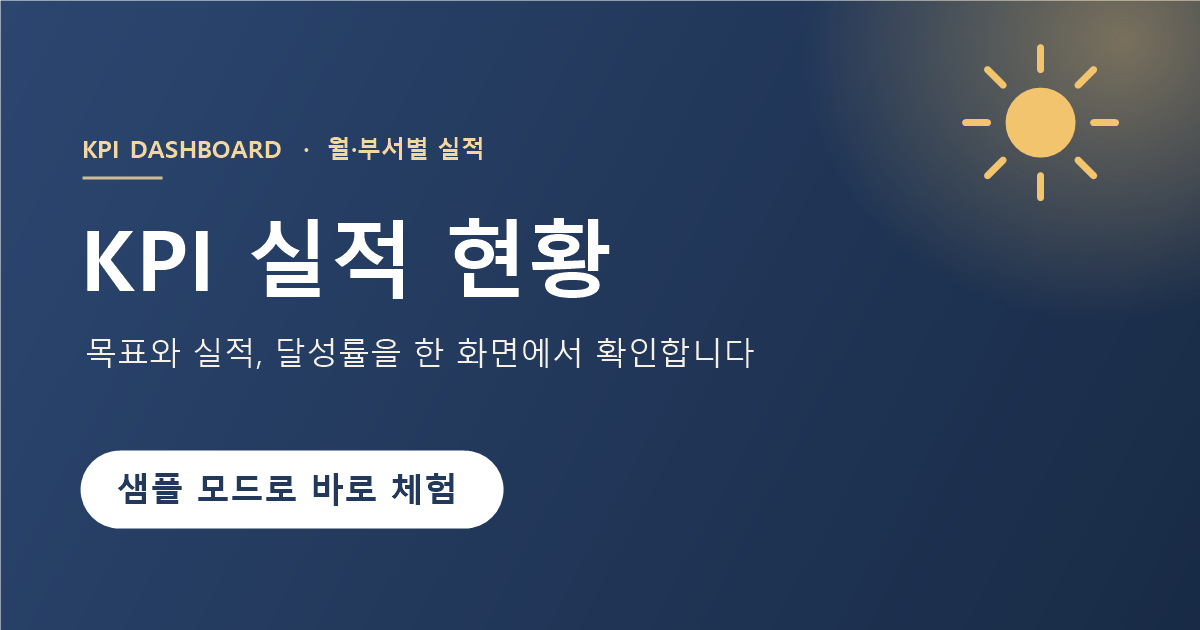
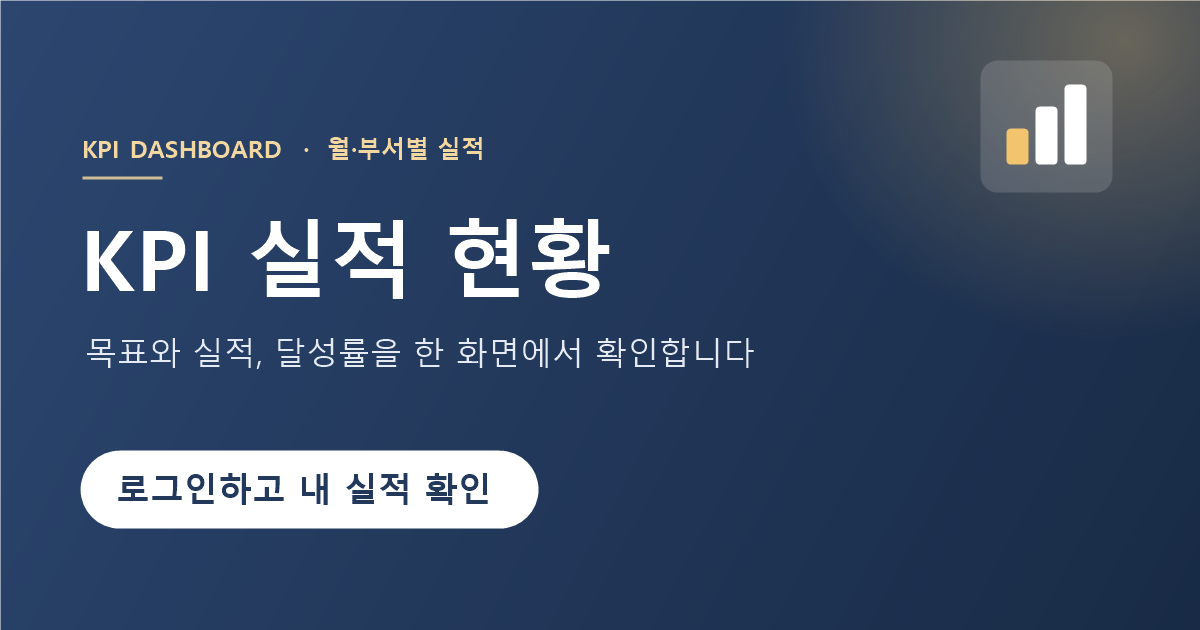
Supabase 로그인 기능 추가, 미리보기 그림 변경

Changed region(s): [[0.0925, 0.6937, 0.4625, 0.8444], [0.8017, 0.0603, 0.925, 0.3317], [0.8017, 0.0905, 0.8325, 0.1206]]

diff --git a/app.js b/app.js
@@ -1,9 +1,9 @@
 // KPI 실적 현황 — app.js
-// [1] 데이터 읽기·저장 부분  [2] 화면 코드  (Supabase 연결 때는 [1]만 바꿉니다)
+// [1] 데이터 읽기·저장 부분  [2] 화면 코드
+// config.js가 비어 있으면 '샘플 모드'(이 브라우저에만 저장),
+// 채워져 있으면 'Supabase 모드'(로그인한 사용자의 자료를 DB에 저장)로 작동합니다.
 
 // ===== [1] 데이터 읽기·저장 =====
-// 지금은 샘플 모드: 가상 샘플을 이 브라우저(localStorage)에만 저장합니다.
-// 나중에 Supabase를 연결할 때는 이 파일의 list / add / update / remove 안쪽만 바꾸면 됩니다.
 (function () {
   var STORAGE_KEY = 'kpi_records_sample_v1';
 
@@ -68,11 +68,11 @@
     return { ok: Object.keys(errors).length === 0, errors: errors, value: { month: month, team: team, target: target, actual: actual } };
   }
 
-  // 화면에서 쓰는 함수들 — 모두 Promise로 돌려줘서 나중에 서버 요청으로 바꾸기 쉽게 했습니다.
-  window.KpiStore = {
+  // --- 샘플 모드: 가상 샘플을 이 브라우저(localStorage)에만 저장 ---
+  var sampleStore = {
     mode: 'sample',
+    auth: null,
     list: function () { return Promise.resolve(load()); },
-    validate: function (input, editingId) { return validate(input, load(), editingId); },
     add: function (input) {
       var rows = load();
       var v = validate(input, rows, null);
@@ -97,6 +97,93 @@
     },
     resetSample: function () { save(clone(SAMPLE)); return Promise.resolve(); }
   };
+
+  // --- Supabase 모드: 로그인한 사용자의 자료만 DB에서 읽고 씀 (RLS가 최종 검사) ---
+  function makeSupabaseStore(url, key) {
+    var db = window.supabase.createClient(url, key);
+    var cache = []; // 화면 검사(중복 안내)에 쓰는 마지막 조회 결과
+    var COLS = 'id, source_id, month, team, target, actual';
+
+    // DB 오류를 쉬운 말로 바꿔서 { errors } 형태로 돌려줌
+    function fail(error, value) {
+      var code = error && error.code;
+      var msg = (error && error.message) || '';
+      var errors = {};
+      if (code === '23505') {
+        if (/source_id/.test(msg)) errors.form = '샘플 6건이 이미 들어 있어요. 기존 자료는 그대로 두었어요.';
+        else errors.team = (value ? value.month + ' ' + value.team + ' ' : '') + '자료가 이미 있습니다. 표에서 [수정]을 눌러 고쳐 주세요.';
+      } else if (code === '23514') errors.form = 'DB 규칙에 맞지 않는 값이라 저장되지 않았어요. (월 형식·부서명·금액 확인)';
+      else if (code === '42501' || /JWT|permission|row-level/i.test(msg)) errors.form = '로그인이 필요하거나 권한이 없어 저장되지 않았어요. 다시 로그인해 주세요.';
+      else if (/fetch|network/i.test(msg)) errors.form = '서버에 연결하지 못했어요. 인터넷 연결을 확인해 주세요.';
+      else errors.form = '저장하지 못했어요. (' + (code || '') + ' ' + msg + ')';
+      return { ok: false, errors: errors };
+    }
+    function toRow(r) { return { id: r.id, source_id: r.source_id, month: r.month, team: r.team, target: Number(r.target), actual: Number(r.actual) }; }
+
+    return {
+      mode: 'supabase',
+      auth: {
+        getUser: function () { return db.auth.getSession().then(function (res) { return res.data.session ? res.data.session.user : null; }); },
+        signIn: function (email, password) {
+          return db.auth.signInWithPassword({ email: email, password: password }).then(function (res) {
+            if (res.error) throw res.error;
+            return res.data.user;
+          });
+        },
+        signOut: function () { cache = []; return db.auth.signOut(); },
+        onChange: function (fn) { db.auth.onAuthStateChange(function (event, session) { cache = []; fn(event, session ? session.user : null); }); }
+      },
+      list: function () {
+        return db.from('kpi_records').select(COLS).order('month', { ascending: false }).then(function (res) {
+          if (res.error) throw fail(res.error);
+          cache = res.data.map(toRow);
+          return cache.map(function (r) { return Object.assign({}, r); });
+        });
+      },
+      add: function (input) {
+        var v = validate(input, cache, null);
+        if (!v.ok) return Promise.reject(v);
+        // user_id는 DB가 로그인한 사용자로 자동으로 채움
+        return db.from('kpi_records').insert(v.value).select(COLS).then(function (res) {
+          if (res.error) throw fail(res.error, v.value);
+          return toRow(res.data[0]);
+        });
+      },
+      update: function (id, input) {
+        var v = validate(input, cache, id);
+        if (!v.ok) return Promise.reject(v);
+        return db.from('kpi_records').update(v.value).eq('id', id).select(COLS).then(function (res) {
+          if (res.error) throw fail(res.error, v.value);
+          // 권한이 없으면 오류 없이 0건일 수 있으므로 반환 행을 확인
+          if (!res.data.length) throw { ok: false, errors: { form: '수정되지 않았어요. 이미 삭제됐거나 내 자료가 아니에요.' } };
+          return toRow(res.data[0]);
+        });
+      },
+      remove: function (id) {
+        return db.from('kpi_records').delete().eq('id', id).select('id').then(function (res) {
+          if (res.error) throw fail(res.error);
+          if (!res.data.length) throw { ok: false, errors: { form: '삭제되지 않았어요. 이미 삭제됐거나 내 자료가 아니에요.' } };
+        });
+      },
+      // 샘플 6건을 한 번의 요청으로 저장 (원본 번호는 source_id로 보관 → 다시 가져오면 중복 오류)
+      importSample: function () {
+        var rows = SAMPLE.map(function (r) { return { source_id: r.id, month: r.month, team: r.team, target: r.target, actual: r.actual }; });
+        return db.from('kpi_records').insert(rows).then(function (res) {
+          if (res.error) throw fail(res.error);
+        });
+      }
+    };
+  }
+
+  var cfg = window.KPI_CONFIG || {};
+  var url = String(cfg.supabaseUrl || '').trim();
+  var key = String(cfg.supabasePublishableKey || '').trim();
+  if (url && key && window.supabase) {
+    window.KpiStore = makeSupabaseStore(url, key);
+  } else {
+    window.KpiStore = sampleStore;
+    if (url && key) window.KpiStore.loadError = 'Supabase 도구를 불러오지 못해 샘플 모드로 작동 중이에요. 인터넷 연결을 확인해 주세요.';
+  }
 })();
 
 // ===== [2] 화면 코드 =====
@@ -104,6 +191,9 @@
   var $ = function (id) { return document.getElementById(id); };
   var rows = [];
   var editingId = null;
+  var isDb = KpiStore.mode === 'supabase';
+  var currentUser = null;
+  function needLogin() { return isDb && !currentUser; }
 
   function won(n) { return n.toLocaleString('ko-KR'); }
   // 퍼센트는 마지막 표시 단계에서만 소수 둘째 자리로 반올림
@@ -174,14 +264,30 @@
       return '<tr' + (r.id === editingId ? ' class="editing"' : '') + '><td>' + esc(r.month) + '</td><td>' + esc(r.team) + '</td>' +
         '<td class="num">' + won(r.target) + '</td><td class="num">' + won(r.actual) + '</td><td class="num">' + pill(pct(r.actual, r.target)) + '</td>' +
         '<td><div class="actions"><button class="btn ghost small" data-edit="' + esc(r.id) + '">수정</button><button class="btn danger small" data-del="' + esc(r.id) + '">삭제</button></div></td></tr>';
-    }).join('') : '<tr><td colspan="6"><div class="empty"><b>' + (rows.length ? '조건에 맞는 자료가 없어요' : '아직 입력된 자료가 없어요') + '</b>' +
-      (rows.length ? '필터를 [필터 초기화]로 되돌려 보세요.' : '위의 실적 입력에서 첫 자료를 저장하거나, 샘플 6건을 불러오세요.') + '</div></td></tr>';
+    }).join('') : '<tr><td colspan="6"><div class="empty">' + (needLogin() ? '<b>로그인하면 내 자료가 보여요</b>위의 로그인 칸에서 앱 사용자로 로그인해 주세요.' :
+      '<b>' + (rows.length ? '조건에 맞는 자료가 없어요' : '아직 입력된 자료가 없어요') + '</b>' +
+      (rows.length ? '필터를 [필터 초기화]로 되돌려 보세요.' : '위의 실적 입력에서 첫 자료를 저장하거나, 샘플 6건을 불러오세요.')) + '</div></td></tr>';
     $('tfoot').innerHTML = list.length ? '<tr><td colspan="2">합계 (' + list.length + '건)</td><td class="num">' + won(tSum) + '</td><td class="num">' + won(aSum) + '</td><td class="num">' + pill(p) + '</td><td></td></tr>' : '';
   }
 
   function reload() {
+    if (needLogin()) { rows = []; render(); return Promise.resolve(); }
     return KpiStore.list().then(function (data) { rows = data; render(); })
-      .catch(function () { showToast('자료를 불러오지 못했어요. 새로고침해 주세요.', false); });
+      .catch(function (v) {
+        rows = []; render();
+        showToast((v && v.errors && v.errors.form) || '자료를 불러오지 못했어요. 새로고침해 주세요.', false);
+      });
+  }
+
+  // 로그인 상태에 맞춰 화면 바꾸기 (Supabase 모드)
+  function setUser(user) {
+    var changed = (currentUser && currentUser.id) !== (user && user.id);
+    currentUser = user;
+    $('loginCard').hidden = !!user;
+    $('logoutBtn').hidden = !user;
+    $('modeBadge').textContent = user ? 'DB 모드 · ' + user.email : 'DB 모드 · 로그인이 필요해요';
+    document.querySelectorAll('#form input, #form button, #sampleBtn').forEach(function (el) { el.disabled = !user; });
+    if (changed) { setEditing(null); rows = []; reload(); }
   }
 
   // 안내 메시지
@@ -255,8 +361,11 @@
       if (!r || !confirm(r.month + ' ' + r.team + ' 자료를 삭제할까요?')) return;
       KpiStore.remove(r.id).then(function () {
         if (editingId === r.id) setEditing(null);
-        return reload();
-      }).then(function () { showToast(r.month + ' ' + r.team + ' 자료를 삭제했어요.', true); });
+        return reload().then(function () { showToast(r.month + ' ' + r.team + ' 자료를 삭제했어요.', true); });
+      }).catch(function (v) {
+        showToast((v && v.errors && v.errors.form) || '삭제하지 못했어요.', false);
+        reload();
+      });
     }
   });
 
@@ -264,10 +373,46 @@
   $('fTeam').addEventListener('change', render);
   $('fReset').addEventListener('click', function () { $('fMonth').value = ''; $('fTeam').value = ''; render(); });
   $('sampleBtn').addEventListener('click', function () {
+    if (isDb) {
+      if (!confirm('가상 샘플 6건을 내 DB 자료로 저장할까요? (한 번만 가능해요)')) return;
+      KpiStore.importSample().then(function () { return reload(); })
+        .then(function () { showToast('샘플 6건을 DB에 저장했어요. 전체 달성률이 99%인지 확인해 보세요.', true); })
+        .catch(function (v) { showToast((v && v.errors && v.errors.form) || '샘플을 저장하지 못했어요.', false); reload(); });
+      return;
+    }
     if (!confirm('지금 자료를 지우고 가상 샘플 6건으로 되돌릴까요?')) return;
     KpiStore.resetSample().then(function () { setEditing(null); return reload(); })
       .then(function () { showToast('샘플 6건으로 되돌렸어요.', true); });
   });
 
-  reload();
+  if (isDb) {
+    $('modeBadge').classList.add('live');
+    $('sampleBtn').textContent = '샘플 6건 가져오기';
+    $('saveNote').innerHTML = '입력한 값은 <b>Supabase DB</b>에 저장돼요. 다른 기기에서 같은 계정으로 로그인해도 똑같이 보여요.';
+
+    $('loginForm').addEventListener('submit', function (e) {
+      e.preventDefault();
+      $('loginErr').textContent = '';
+      $('loginBtn').disabled = true;
+      KpiStore.auth.signIn($('lEmail').value.trim(), $('lPw').value)
+        .then(function (user) { $('lPw').value = ''; setUser(user); showToast(user.email + ' 계정으로 로그인했어요.', true); })
+        .catch(function (err) {
+          var msg = (err && err.message) || '';
+          $('loginErr').textContent = /Invalid login/i.test(msg) ? '이메일 또는 비밀번호가 맞지 않아요.' :
+            /not confirmed/i.test(msg) ? '이메일 확인이 끝나지 않은 사용자예요. Supabase에서 확인 완료로 바꿔 주세요.' :
+            /fetch|network/i.test(msg) ? 'Supabase에 연결하지 못했어요. 인터넷 연결과 config.js의 주소를 확인해 주세요.' :
+            '로그인하지 못했어요. (' + msg + ')';
+        })
+        .then(function () { $('loginBtn').disabled = false; });
+    });
+    $('logoutBtn').addEventListener('click', function () {
+      KpiStore.auth.signOut().then(function () { setUser(null); showToast('로그아웃했어요.', true); });
+    });
+    KpiStore.auth.onChange(function (event, user) { setUser(user); });
+    setUser(null); render(); // 로그인 확인 전에는 빈 화면
+    KpiStore.auth.getUser().then(setUser);
+  } else {
+    if (KpiStore.loadError) showToast(KpiStore.loadError, false);
+    reload();
+  }
 })();

diff --git a/index.html b/index.html
@@ -11,7 +11,7 @@
 <meta property="og:title" content="KPI 실적 현황">
 <meta property="og:description" content="월·부서별 목표와 실적, 달성률을 한 화면에서 확인합니다">
 <meta property="og:url" content="https://jiniya1227.github.io/kpi-dashboard/">
-<meta property="og:image" content="https://jiniya1227.github.io/kpi-dashboard/og.png?v=20261029">
+<meta property="og:image" content="https://jiniya1227.github.io/kpi-dashboard/og.png?v=20261029b">
 <meta property="og:image:width" content="1200">
 <meta property="og:image:height" content="630">
 
@@ -31,11 +31,26 @@
     <div class="eyebrow">KPI Dashboard</div>
     <h1>KPI 실적 현황</h1>
     <p>월·부서별 목표와 실적을 비교하고 달성률을 확인합니다.</p>
-    <div class="mode" id="modeBadge">샘플 모드 · 가상 자료로 작동 중</div>
+    <div class="mode-row">
+      <div class="mode" id="modeBadge">샘플 모드 · 가상 자료로 작동 중</div>
+      <button class="btn small logout" id="logoutBtn" type="button" hidden>로그아웃</button>
+    </div>
   </div>
 </header>
 
 <main class="wrap">
+
+  <!-- 로그인 (Supabase 모드에서만 보임) -->
+  <section class="card login" id="loginCard" aria-labelledby="t-login" hidden>
+    <div class="section-title"><span class="no">00</span><h2 id="t-login">로그인</h2></div>
+    <p class="login-lead">로그인하면 <b>내 실적 자료</b>만 보이고, 입력한 값은 DB에 저장돼요.</p>
+    <form id="loginForm" class="login-form">
+      <div class="field"><label for="lEmail">이메일</label><input type="email" id="lEmail" autocomplete="username" required></div>
+      <div class="field"><label for="lPw">비밀번호</label><input type="password" id="lPw" autocomplete="current-password" required></div>
+      <button class="btn" type="submit" id="loginBtn">로그인</button>
+    </form>
+    <div class="err" id="loginErr" role="alert"></div>
+  </section>
 
   <!-- 01 필터 -->
   <section class="card" aria-labelledby="t-filter">
@@ -91,7 +106,7 @@
         </div>
       </form>
       <div class="toast" id="toast" role="status"></div>
-      <p class="note">샘플 모드에서는 입력한 값이 <b>이 브라우저에만</b> 남습니다. 다른 기기·다른 사람에게는 보이지 않아요.</p>
+      <p class="note" id="saveNote">샘플 모드에서는 입력한 값이 <b>이 브라우저에만</b> 남습니다. 다른 기기·다른 사람에게는 보이지 않아요.</p>
     </section>
   </div>
 
@@ -111,6 +126,7 @@
 
 <footer>KPI 실적 현황 · 화면은 index.html·style.css, 저장·화면 동작은 app.js, 연결 정보는 config.js에서 관리합니다.</footer>
 
+<script src="https://cdn.jsdelivr.net/npm/@supabase/supabase-js@2.45.4/dist/umd/supabase.min.js" defer></script>
 <script src="./config.js" defer></script>
 <script src="./app.js" defer></script>
 </body>

diff --git a/style.css b/style.css
@@ -34,6 +34,22 @@ header.top p { margin: 8px 0 0; color: #d7deea; }
 .mode { display: inline-flex; align-items: center; gap: 8px; margin-top: 18px; background: rgba(255,255,255,.12); border: 1px solid rgba(255,255,255,.25); padding: 6px 14px; border-radius: 999px; font-size: 14px; font-weight: 500; }
 .mode::before { content: ''; width: 8px; height: 8px; border-radius: 50%; background: var(--gold); }
 
+.mode-row { display: flex; flex-wrap: wrap; align-items: center; gap: 10px; margin-top: 18px; }
+.mode-row .mode { margin-top: 0; }
+.mode.live::before { background: #6fd3a0; }
+.btn.logout { background: transparent; border-color: rgba(255,255,255,.4); color: #fff; }
+.btn.logout:hover { background: rgba(255,255,255,.12); }
+
+/* 로그인 */
+.card.login { margin-bottom: 18px; border-color: var(--gold); }
+.login-lead { margin: 0 0 14px; color: var(--muted); }
+.login-form { display: flex; flex-wrap: wrap; gap: 12px; align-items: flex-end; }
+.login-form .field { flex: 1 1 220px; }
+input[type=email], input[type=password] { height: 46px; border: 1px solid #cfd5df; border-radius: 10px; padding: 0 12px; background: #fff; width: 100%; }
+#loginErr { margin-top: 10px; }
+fieldset { border: 0; margin: 0; padding: 0; min-width: 0; }
+fieldset:disabled { opacity: .55; }
+
 main { margin-top: -56px; position: relative; z-index: 1; padding-bottom: 56px; }
 .card { background: var(--card); border: 1px solid var(--line); border-radius: 18px; padding: 22px; box-shadow: 0 6px 24px rgba(24,42,69,.06); }
 .section-title { display: flex; align-items: baseline; gap: 10px; margin-bottom: 14px; }

diff --git a/config.js b/config.js
@@ -1,7 +1,8 @@
-// Supabase 연결 정보 (다음 수업에서 채웁니다)
+// Supabase 연결 정보 — 수업 가이드(슬라이드 36번)와 같은 이름을 씁니다.
 // 비어 있으면 앱은 '샘플 모드'로 작동하고, 값은 이 브라우저에만 남습니다.
-// 여기에는 공개용(publishable) 키만 넣습니다. 비밀 키(secret/service_role)는 절대 넣지 마세요.
+// 여기에는 Project URL과 publishable key만 넣습니다.
+// 앱 비밀번호·DB 비밀번호·secret/service_role 키는 절대 넣지 마세요.
 window.KPI_CONFIG = {
-  SUPABASE_URL: '',
-  SUPABASE_KEY: ''
+  supabaseUrl: '',
+  supabasePublishableKey: ''
 };
